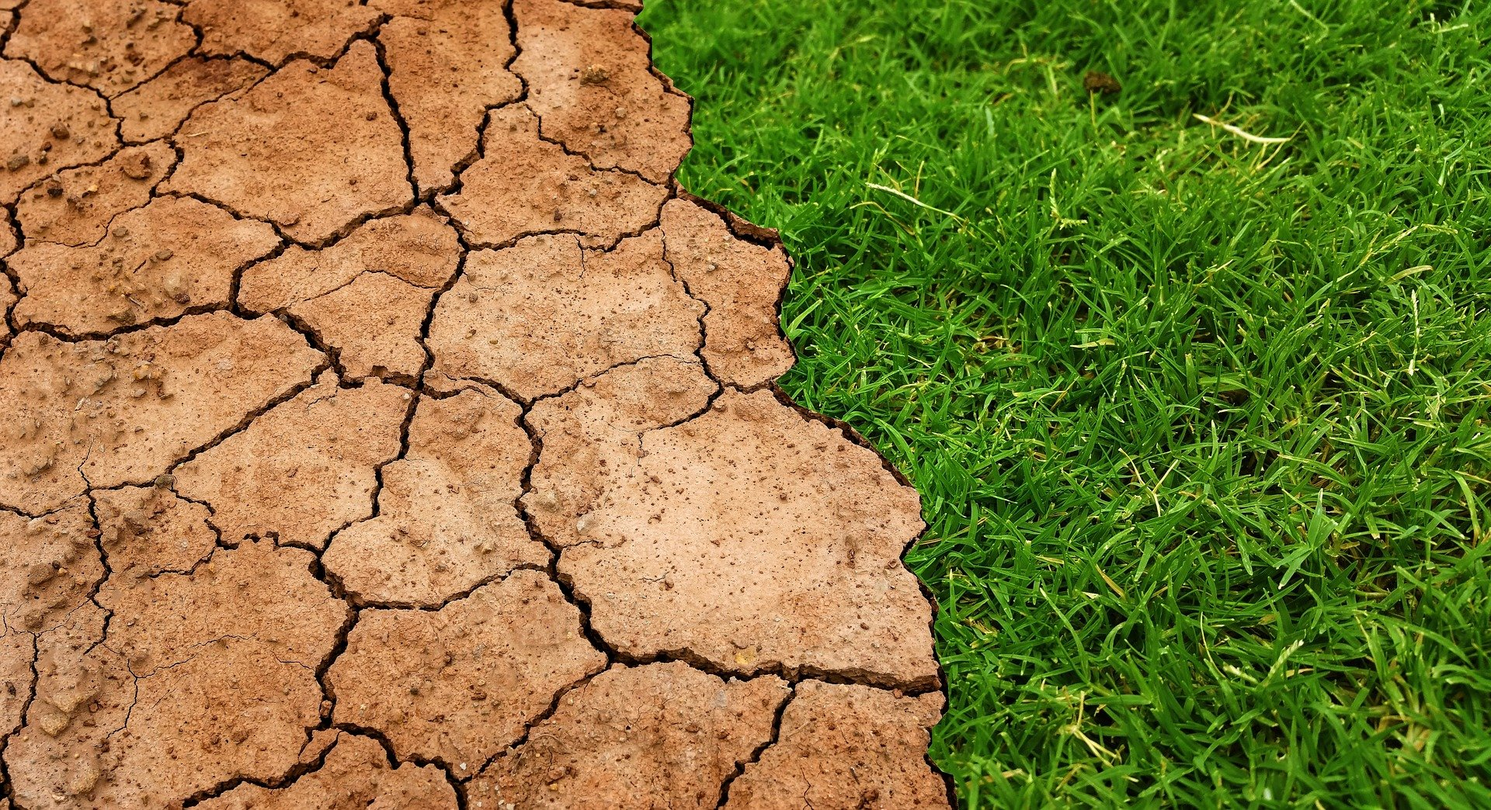
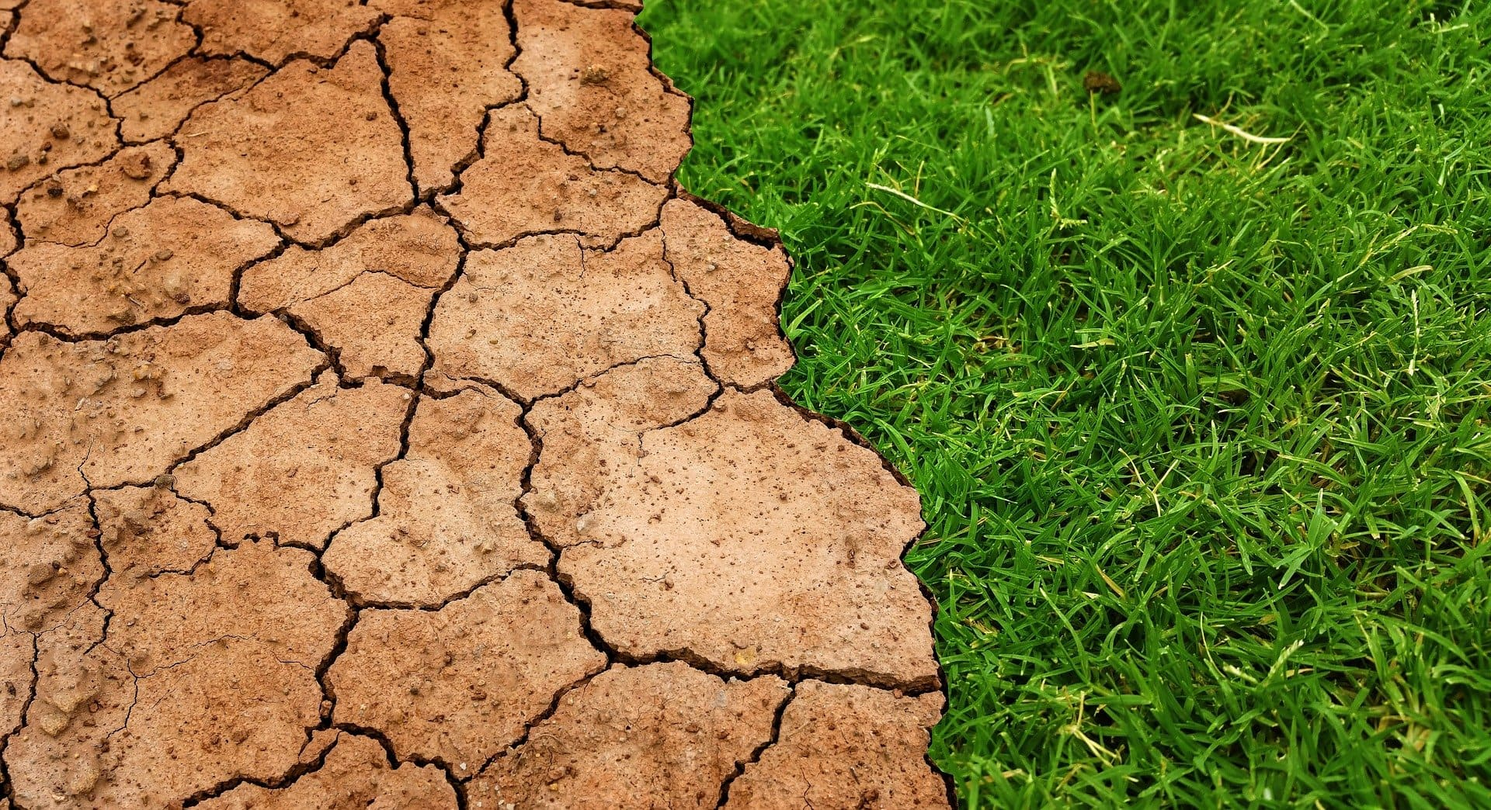
image

diff --git a/app/Views/frontoffice/index.php b/app/Views/frontoffice/index.php
@@ -19,7 +19,7 @@
 <!-- ========== Start causes ========== -->
 
 <h1>Quels sont les cause de la rechauffement climatique ?</h1>
-<img class="responsive" src="<?= base_url() ?>/assets/frontoffice/images/marek-piwnicki-WiZOyYqzUss-unsplash.jpg" alt="">
+<img class="responsive" src="<?= base_url() ?>/assets/frontoffice/images/marek-piwnicki-WiZOyYqzUss-unsplash.webp" alt="">
 <p>
     Jusqu'à présent, l'une des principales causes du changement climatique est notre combustion de combustibles fossiles (charbon, gaz naturel et pétrole), qui augmente la concentration de gaz à effet de serre tels que le dioxyde de carbone dans l'atmosphère. Combiné à d'autres activités, telles que le défrichement des terres pour l'agriculture, cela a provoqué une augmentation de la température moyenne de notre planète. Pour les scientifiques, le lien entre les gaz à effet de serre et le réchauffement climatique est aussi certain que le lien entre le tabagisme et le cancer du poumon.
 </p>

diff --git a/app/Views/frontoffice/template.php b/app/Views/frontoffice/template.php
@@ -36,7 +36,7 @@
         </div>
     </nav>
     <!-- Page Header-->
-    <header class="masthead" style="background-image: url('<?= base_url("/assets/frontoffice/images/global-ge997c9ce0_1920.jpg") ?>')">
+    <header class="masthead" style="background-image: url('<?= base_url("/assets/frontoffice/images/global-ge997c9ce0_1920.webp") ?>')">
         <div class="container position-relative px-4 px-lg-5">
             <div class="row gx-4 gx-lg-5 justify-content-center">
                 <div class="col-md-10 col-lg-8 col-xl-7">

diff --git a/app/Config/App.php b/app/Config/App.php
@@ -24,8 +24,8 @@ class App extends BaseConfig
      * @var string
      * 
      */
-    public $baseURL = 'https://earth.joblinkagency.com/public';
-    // public $baseURL = 'http://localhost:8080';
+    // public $baseURL = 'https://earth.joblinkagency.com/public';
+    public $baseURL = 'http://localhost:8080';
     /**
      * --------------------------------------------------------------------------
      * Index File
